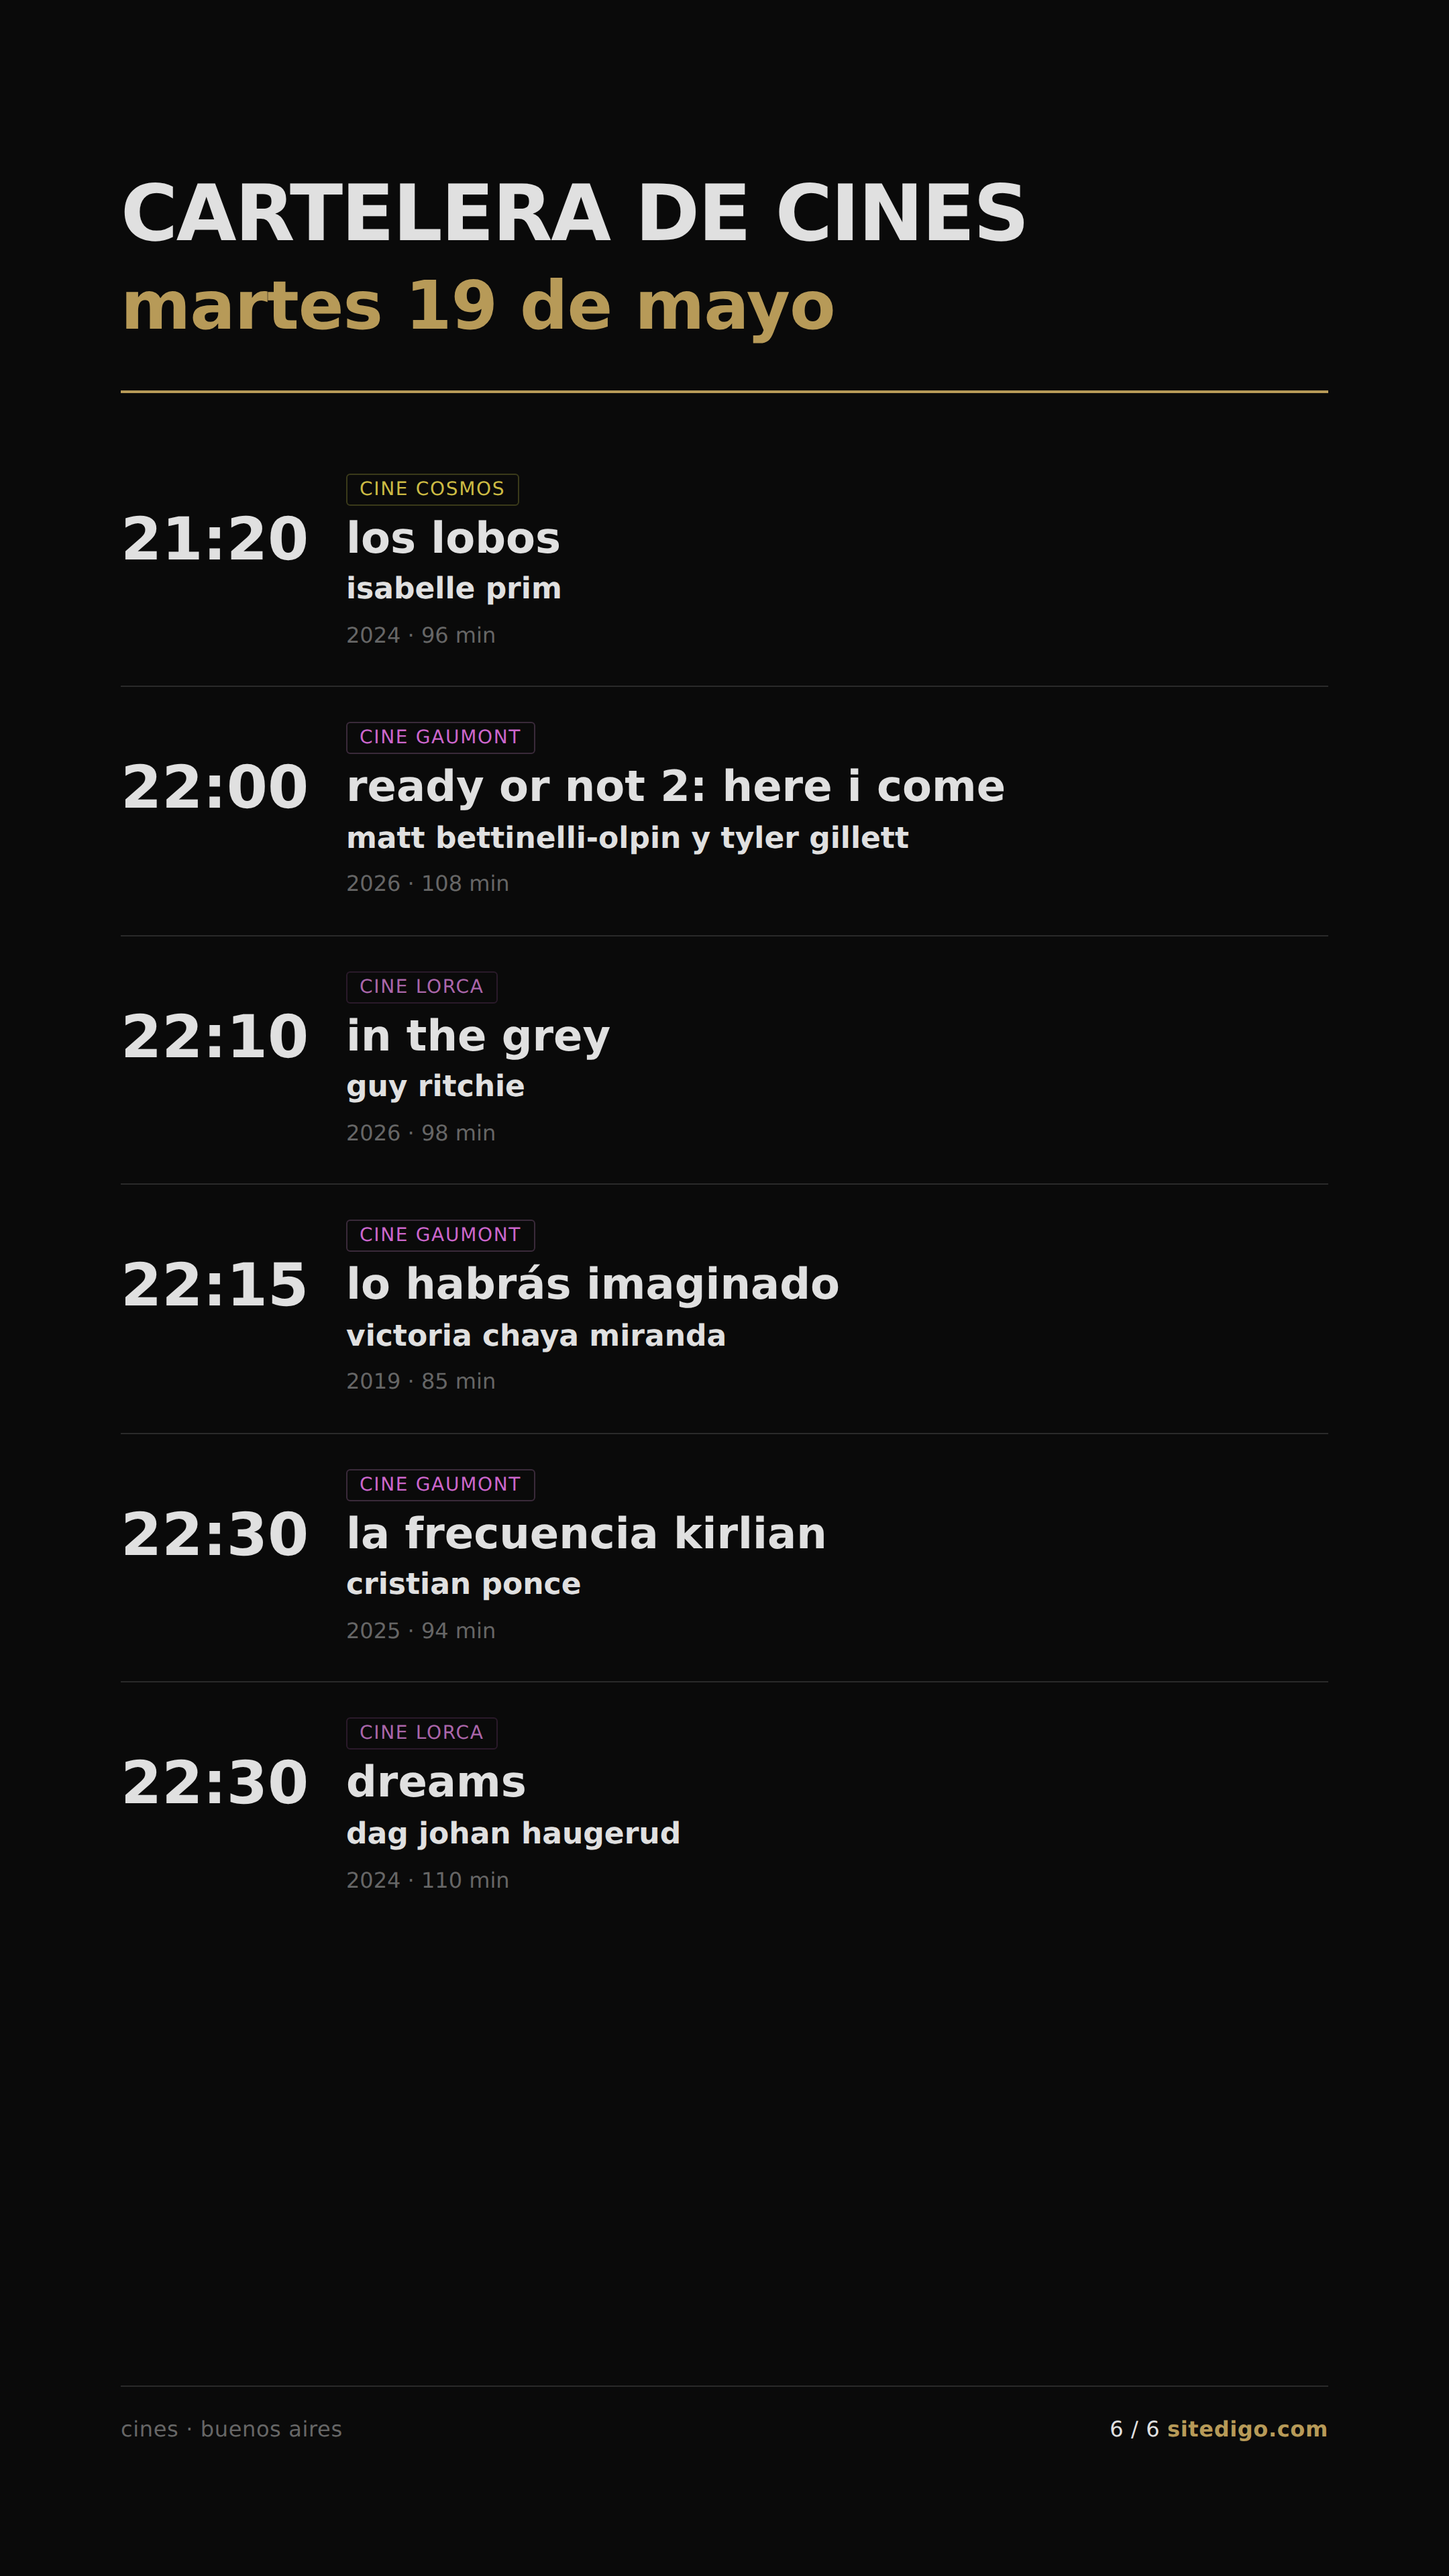
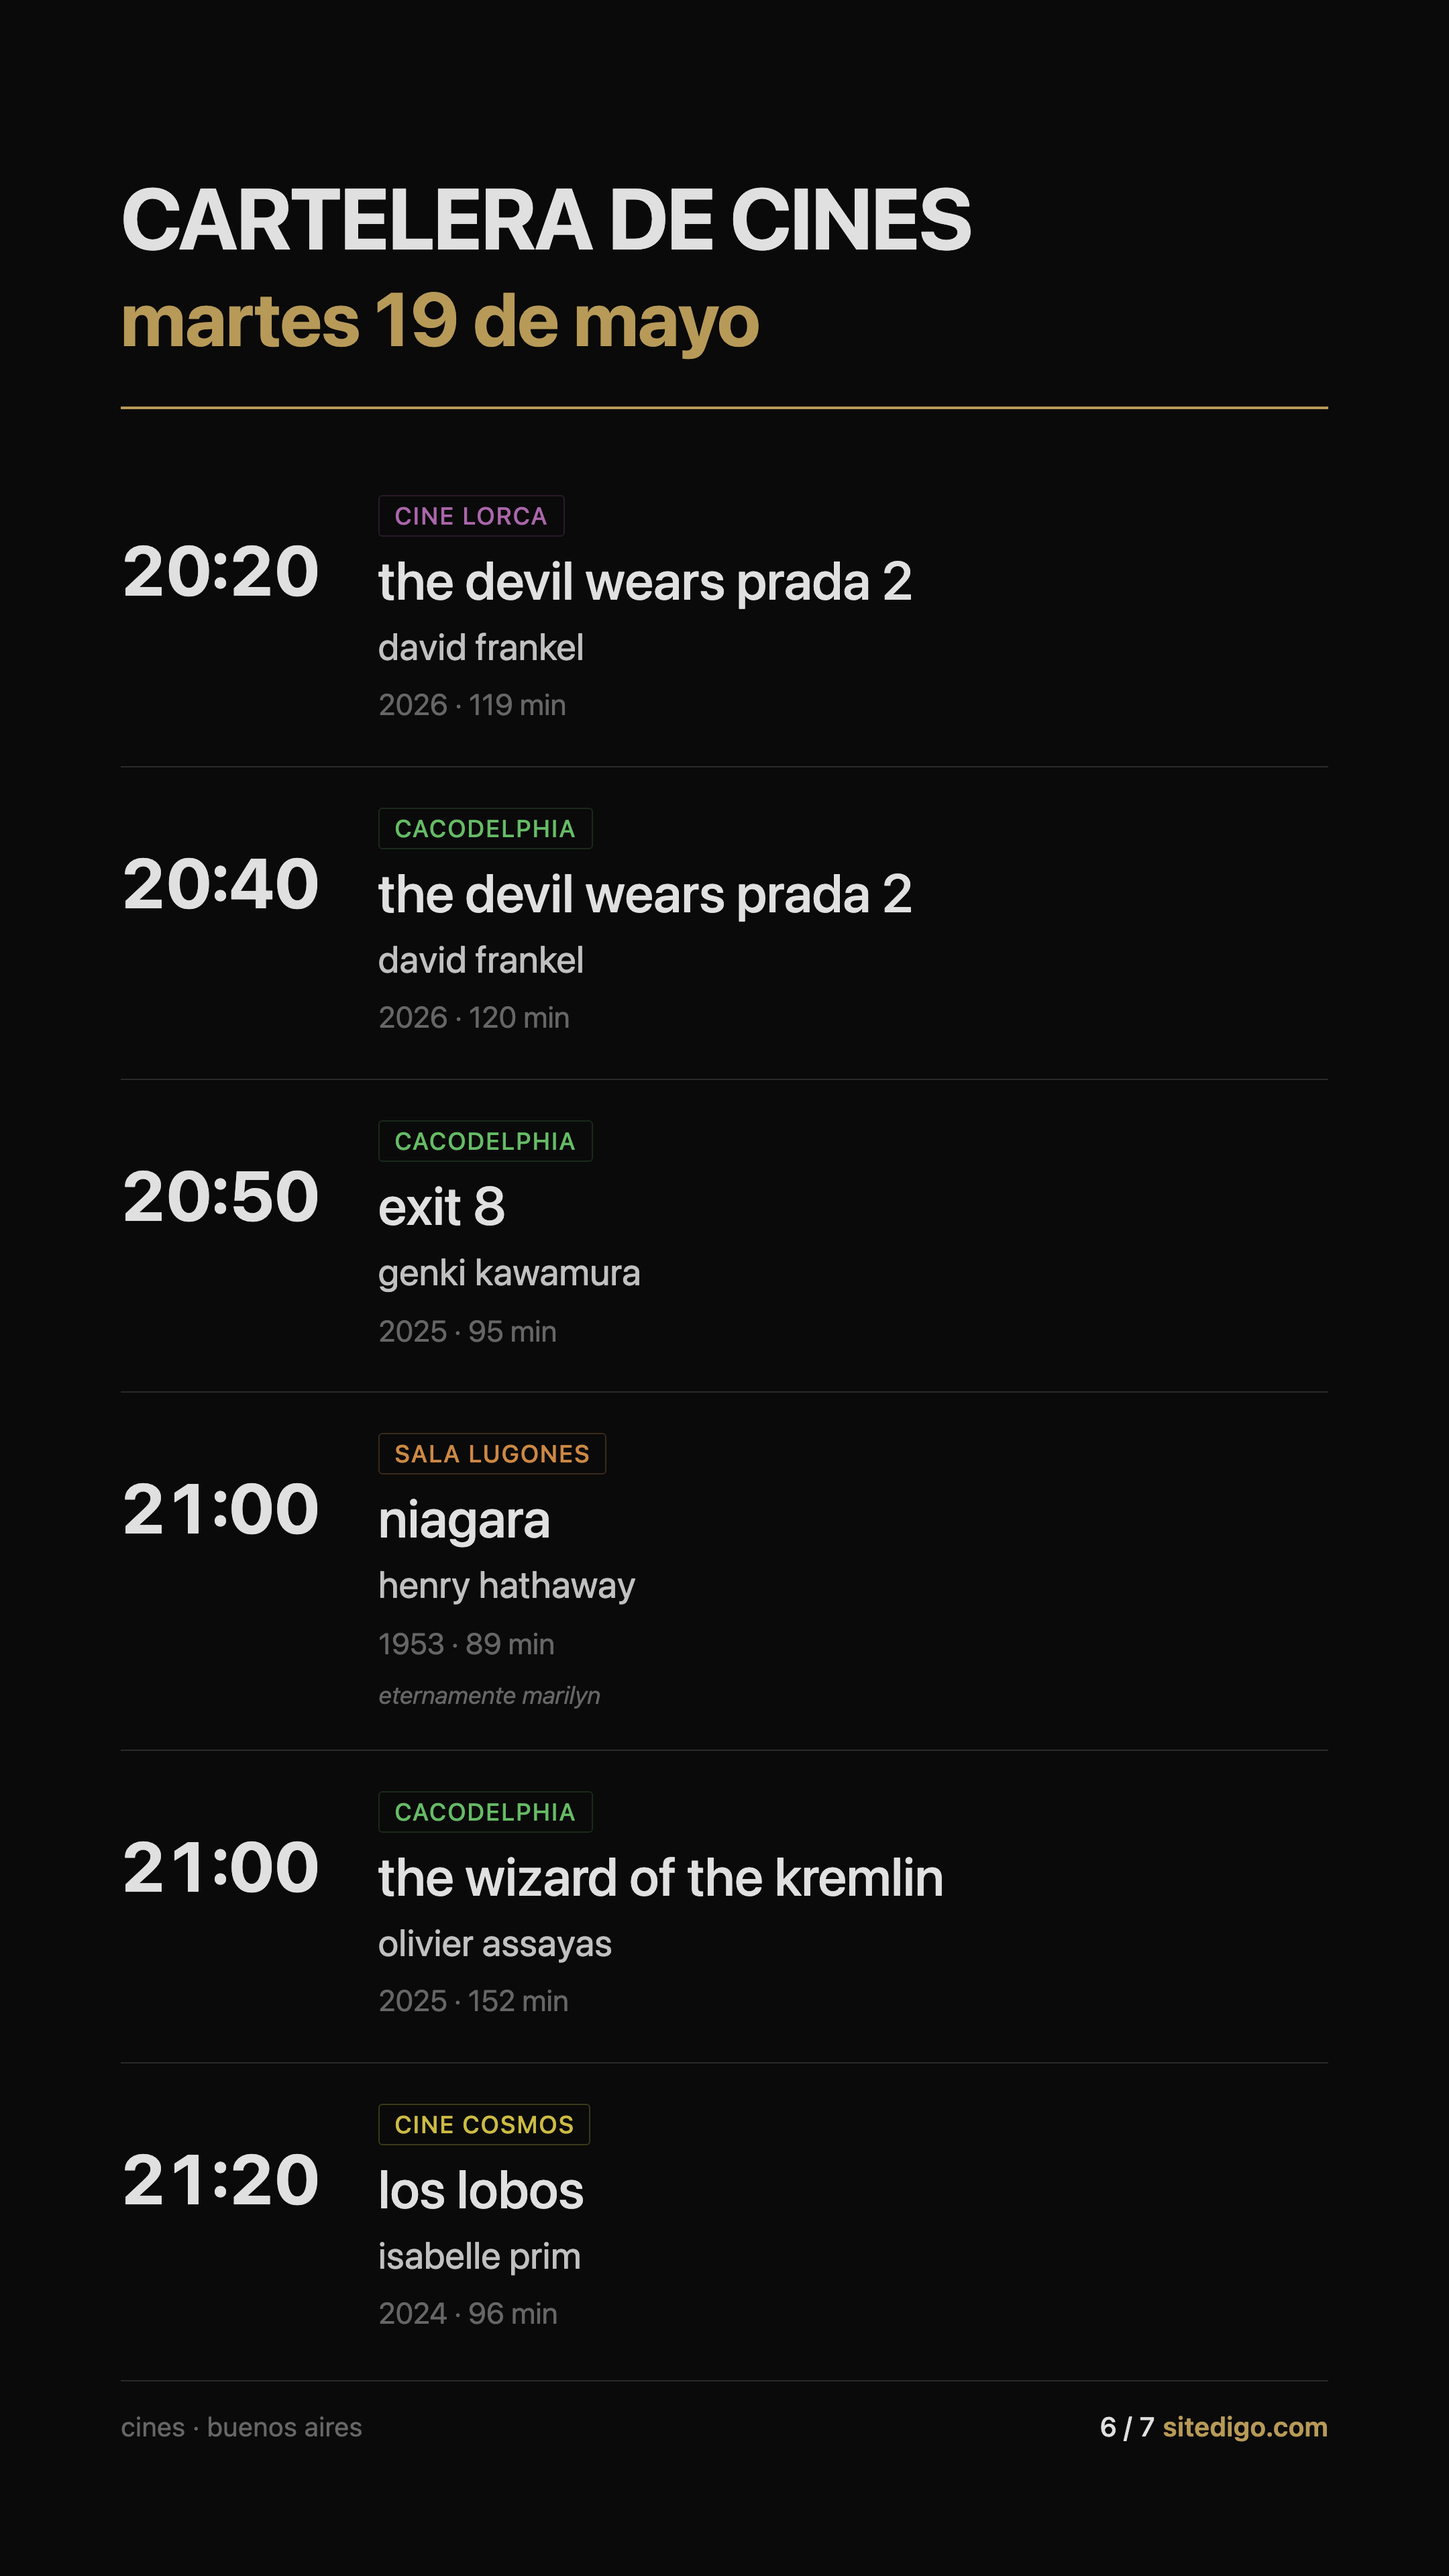
ux(stories): bigger type + drop heavy bold, more minimalist
Per user request the story text felt cramped/small and the bold weight on
titles + directors looked heavy. Changes:

- Bump font sizes ~20% across the story slide: brand 58→64, date 50→56,
  time 44→52, cine badge 14→18, title 32→40, director 22→28,
  meta 16→22, ciclo 14→18, footer 16→20. Row padding/gap bumped too
  for visual room.
- film-title font-weight 700→500 (medium) with -0.005em letter-spacing
  for a cleaner look while staying readable.
- film-director font-weight 700→400 (regular) + opacity 0.85 — softer,
  reads as secondary info.
- filmsPerSlide('story') 7→6 to keep content within the 1920px height
  with the new larger sizes.

diff --git a/instagram.html b/instagram.html
@@ -70,61 +70,61 @@
   }
 
   .post.story .post-brand {
-    font-size: 58px;
+    font-size: 64px;
   }
 
   .post.story .post-date {
-    font-size: 50px;
+    font-size: 56px;
   }
 
   .post.story .film {
     display: grid;
-    grid-template-columns: 140px 1fr;
-    gap: 28px;
-    padding: 26px 0;
+    grid-template-columns: 160px 1fr;
+    gap: 32px;
+    padding: 30px 0;
     align-items: start;
   }
 
   .post.story .film-time {
-    font-size: 44px;
-    padding-top: 28px;
+    font-size: 52px;
+    padding-top: 30px;
     line-height: 1;
   }
 
   .post.story .film-body {
     display: flex;
     flex-direction: column;
-    gap: 8px;
+    gap: 10px;
     padding-top: 0;
   }
 
   .post.story .film-cine {
     position: static;
-    font-size: 14px;
-    padding: 3px 9px;
+    font-size: 18px;
+    padding: 4px 11px;
   }
 
   .post.story .film-title {
-    font-size: 32px;
-    line-height: 1.05;
+    font-size: 40px;
+    line-height: 1.1;
   }
 
   .post.story .film-director {
-    font-size: 22px;
+    font-size: 28px;
   }
 
   .post.story .film-meta {
-    font-size: 16px;
+    font-size: 22px;
   }
 
   .post.story .film-ciclo {
-    font-size: 14px;
+    font-size: 18px;
   }
 
   .post.story .post-footer {
     padding-top: 22px;
     margin-top: 22px;
-    font-size: 16px;
+    font-size: 20px;
   }
   .post-header {
     display: flex; flex-direction: column; gap: 8px;
@@ -195,11 +195,12 @@
 
   /* Lowercase para el contenido (no para badges/labels uppercase) */
   .film-title {
-    font-size: 32px; font-weight: 700; line-height: 1.05;
+    font-size: 32px; font-weight: 500; line-height: 1.1;
     color: var(--text); text-transform: lowercase;
     display: block;
+    letter-spacing: -0.005em;
   }
-  .film-director { font-size: 22px; font-weight: 700; color: var(--text); line-height: 1.3; text-transform: lowercase; }
+  .film-director { font-size: 22px; font-weight: 400; color: var(--text); line-height: 1.3; text-transform: lowercase; opacity: 0.85; }
   .film-meta { font-size: 16px; color: var(--muted); line-height: 1.4; }
   .film-ciclo { font-size: 14px; color: var(--muted); font-style: italic; margin-top: 2px; text-transform: lowercase; }
 
@@ -422,7 +423,7 @@ window.cartelera = {
 function filmsPerSlide(format) {
   if (format === 'square') return 4;
   if (format === 'portrait') return 5;
-  if (format === 'story') return 7;
+  if (format === 'story') return 6;
   return 5;
 }
 
